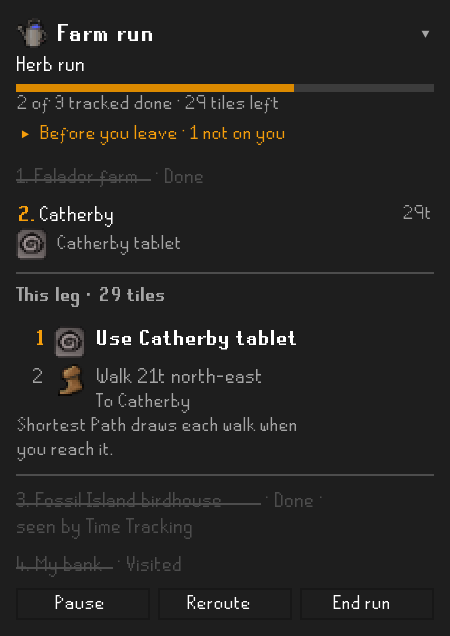
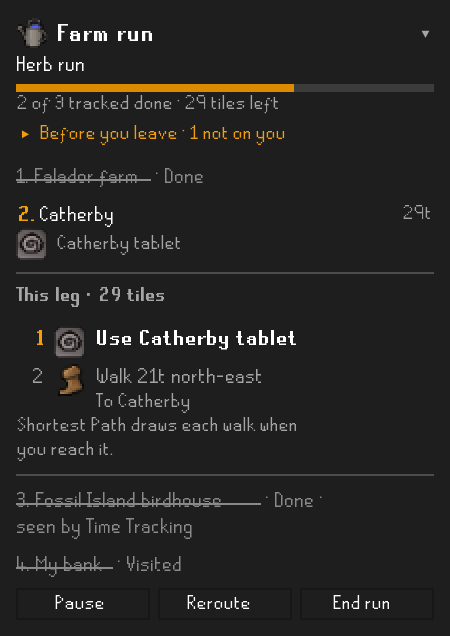
Paint the README's pictures again for the struck rows, the meetup fold and the name link
Three of this branch's fixes change surfaces the Plugin Hub page pictures:
the struck stops of the farm, charting and port runs now read in a
lighter grey, a folded meetup's wrapped line stays under its title with
its world, and Settings draws Use another name as a line to press. The
five pictures that show them are painted again with the harness, at the
same sizes; the other scenes paint the same as before.

The quest-route scene sets RoutePress's last press by reflection, and
that record now keeps the press's target for Reroute, so the scene
passes it. docs/review-evidence/readme-2026-11-14.md records how each
was painted and what changed in it.

diff --git a/docs/review-evidence/sidebar-polish-2026-10-29/SidebarPolishShot.java b/docs/review-evidence/sidebar-polish-2026-10-29/SidebarPolishShot.java
@@ -795,7 +795,7 @@ public class SidebarPolishShot
 		((DestinationRoute) get(cards, "destinationRoute")).adoptPressed(answer);
 		java.lang.reflect.Constructor<?> shown = Class.forName("com.pbolduc.mapcompanion.RoutePress$Shown").getDeclaredConstructors()[0];
 		shown.setAccessible(true);
-		set(press, "shown", shown.newInstance(DestinationRoute.keyOf(answer), get(target, "picture"), destinations.generation()));
+		set(press, "shown", shown.newInstance(DestinationRoute.keyOf(answer), get(target, "picture"), destinations.generation(), target));
 	}
 
 	static List<Component> all(java.awt.Container root)

diff --git a/docs/review-evidence/readme-2026-11-14.md b/docs/review-evidence/readme-2026-11-14.md
@@ -46,3 +46,27 @@ Only this scene was moved. The other section scenes — `search-whip-card`, `far
 `chart-run`, `slayer-card`, `port-run` and `quest-route`, and `VoyageShot`'s `voyage-sail` — still
 paint at 225px, 20px wider than the sidebar gives them, until their pictures are painted again and
 looked at. The scenes of the whole panel are right at 225px, its insets included.
+
+## Five more, painted again for the review fixes
+
+Three changes the review found reach pictures the README shows: a run's struck stops and a route's
+finished steps are drawn in a grey that reads at 4.8:1 rather than RuneLite's MEDIUM_GRAY at 2:1, a
+folded meetup's line keeps its triangle in a cell of its own and its world held to its dot, and
+*Use another name* in Settings is drawn in What's new's orange with its chevron. The same command
+as on 13 November painted every scene it lists; these five differ from what the README had, and
+the rest are the same pixel for pixel. Painted twice, the two were the same but for the meetups'
+clocks, which are the hour each was painted.
+
+`SidebarPolishShot`'s `quest-route` sets `RoutePress`'s last press by reflection, and that record
+now keeps the press's target beside its picture, for a Reroute to ask again; the scene passes it.
+
+| Picture | Scene | What changed |
+| --- | --- | --- |
+| `sidebar-farm-run.png` | `farm-count` | *1. Falador farm · Done*, the birdhouse and *4. My bank · Visited* in the lighter grey |
+| `sidebar-chart-run.png` | `chart-run` | *1. Use your spyglass to ad… · Charted* in the lighter grey |
+| `sidebar-port-tasks.png` | `port-run` | *1. Port Khazard · Done* in the lighter grey |
+| `sidebar-group.png` | `group` | The raid's folded line wraps under its title, *AM · W416* together |
+| `sidebar-settings.png` | `settings-closed` | *Use another name ›* in orange under the grey *Shown as your character name* |
+
+Each was looked at for a cut word, an overlap or a missing sprite, and had none. The sizes are
+unchanged.
